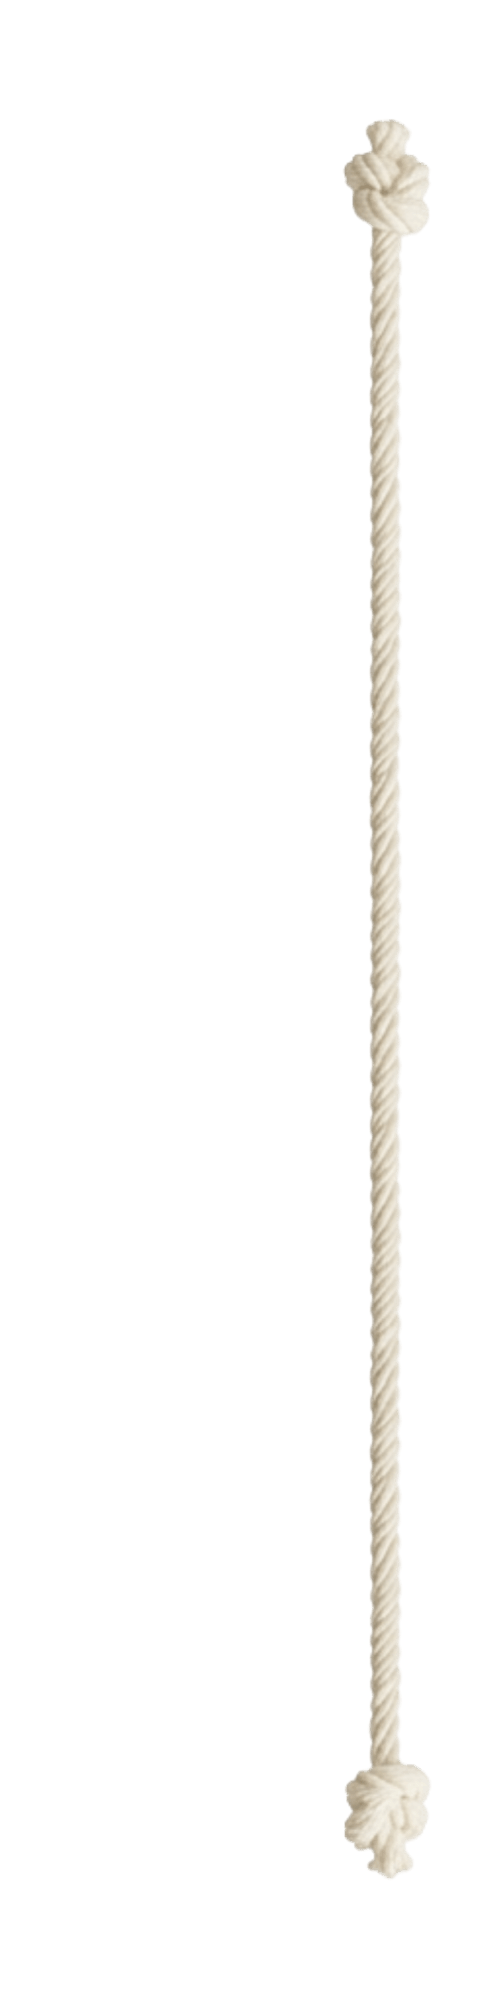
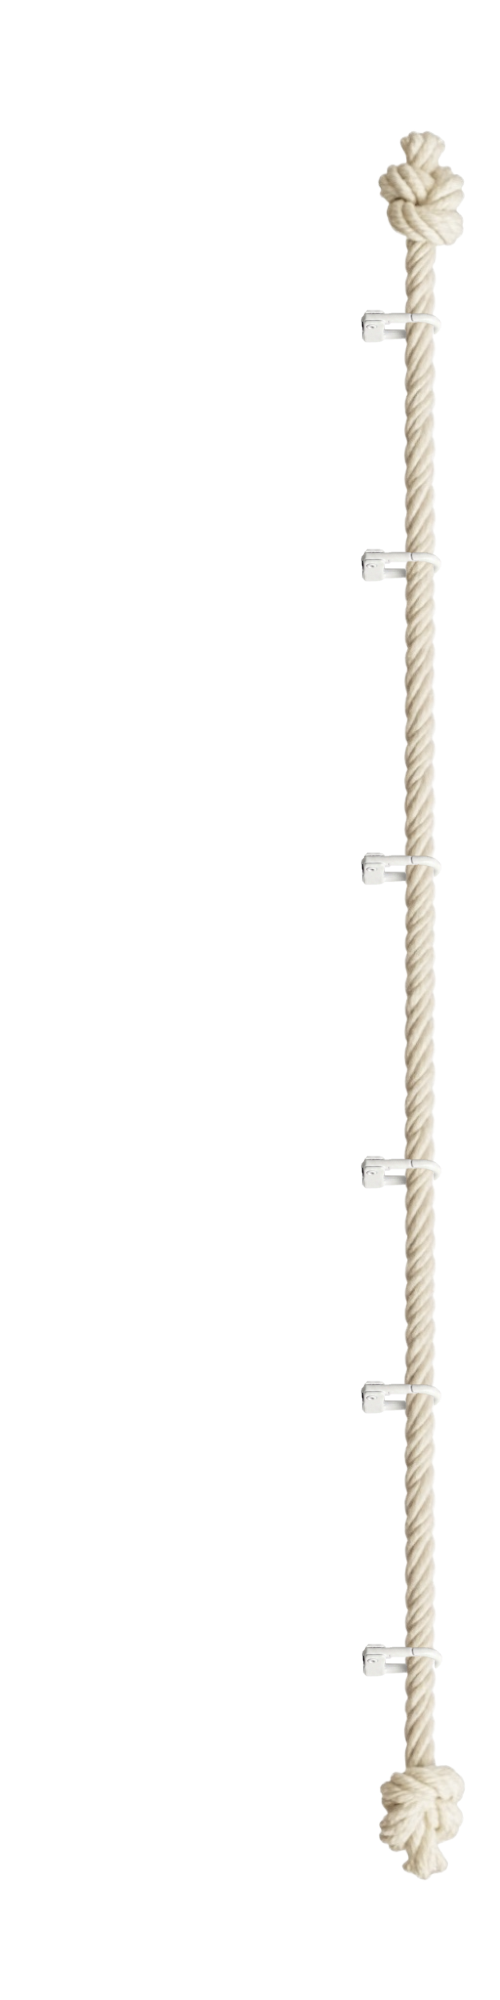
GPS charms!
GPS now has charms and some of the code is fixed up. just gotta do physics and sound effects now.

Changed region(s): [[0.69, 0.062, 0.93, 0.961]]

diff --git a/js/GPSolar.js b/js/GPSolar.js
@@ -5,9 +5,6 @@
   let selectedCharm = null;
   let openingAnimationDone = false;
 
-  // How long (ms) to wait after removing charm-active before setting
-  // display:none — must be >= the slide-back transition duration (500ms).
-  // A little extra headroom prevents cutting the animation short.
   const HIDE_DELAY = 550;
 
   const charms = [
@@ -19,9 +16,6 @@
     "legacy",
   ];
 
-  // pages controlled by each charm
-  // NOTE: GPSolar-report is intentionally NOT listed here.
-  //       It is the cover/stack image and must always remain rendered.
   const charmPages = {
     roots: [".GPSolar-roots1", ".GPSolar-roots2"],
     push: [".GPSolar-push1", ".GPSolar-push2", ".GPSolar-push3"],
@@ -54,46 +48,28 @@
       .filter(Boolean);
   }
 
-  /**
-   * Make pages visible immediately so their transitions can fire.
-   * Forces a reflow between display:block and adding charm-active
-   * so the browser actually animates the slide-in.
-   */
   function showPages(pages) {
     pages.forEach((el) => {
-      // Cancel any pending hide timer on this element
       if (el._hideTimer) {
         clearTimeout(el._hideTimer);
         el._hideTimer = null;
       }
       el.style.display = "block";
-      // Force reflow so the initial (stack) position is painted
-      // before charm-active moves the element to its active position.
       el.getBoundingClientRect();
     });
   }
 
-  /**
-   * Remove charm-active so the slide-back transition plays,
-   * then hide the element after the transition completes.
-   */
   function hidePages(pages) {
     pages.forEach((el) => {
-      // Cancel any previously scheduled hide first
       if (el._hideTimer) {
         clearTimeout(el._hideTimer);
         el._hideTimer = null;
       }
-      // Remove charm-active — this triggers the CSS slide-back transition.
-      // Do NOT clear el.style.transition here; that would kill the animation
-      // before it starts. The transition stays alive until the timer fires.
       el.classList.remove("charm-active");
-      // Hide after the slide-back transition has finished
       el._hideTimer = setTimeout(() => {
-        // Only hide if the element hasn't been re-activated in the meantime
         if (!el.classList.contains("charm-active")) {
           el.style.display = "none";
-          el.style.transition = ""; // safe to clear now — animation is done
+          el.style.transition = "";
         }
         el._hideTimer = null;
       }, HIDE_DELAY);
@@ -110,20 +86,17 @@
   // SELECTION
   // ============================================================
   function selectCharm(name) {
-    // Deselect all charm highlights
     charms.forEach((charm) => {
       const el = document.getElementById(`charm-${charm}`);
       if (el) el.classList.remove("charm-selected");
     });
 
     if (selectedCharm === name) {
-      // Tapping the same charm again — deselect: slide back then hide
       const pages = getPages(name);
       if (openingAnimationDone) setPageTransition(pages, "0s");
       hidePages(pages);
       selectedCharm = null;
     } else {
-      // Deactivate the previously selected charm, if any
       if (selectedCharm) {
         const prevPages = getPages(selectedCharm);
         if (openingAnimationDone) setPageTransition(prevPages, "0s");
@@ -132,11 +105,9 @@
 
       selectedCharm = name;
 
-      // Highlight the newly selected charm
       const el = document.getElementById(`charm-${name}`);
       if (el) el.classList.add("charm-selected");
 
-      // Show and animate in the new charm's pages
       const pages = getPages(name);
       showPages(pages);
       if (openingAnimationDone) setPageTransition(pages, "0s");
@@ -146,10 +117,6 @@
     console.log("Selected charm:", selectedCharm);
   }
 
-  /**
-   * Called when the poster closes. Hides all charm pages immediately
-   * (no delay needed — the whole poster is animating away anyway).
-   */
   function clearSelection() {
     charms.forEach((charm) => {
       const el = document.getElementById(`charm-${charm}`);
@@ -159,7 +126,6 @@
     Object.keys(charmPages).forEach((name) => {
       const pages = getPages(name);
       pages.forEach((el) => {
-        // Cancel any pending hide timer
         if (el._hideTimer) {
           clearTimeout(el._hideTimer);
           el._hideTimer = null;
@@ -175,10 +141,29 @@
 
   // ============================================================
   // CLICK HANDLER
+  // Uses elementFromPoint to let the browser do its own native
+  // hit test — respects all CSS transforms and real PNG transparency
+  // without any coordinate math. Temporarily disables pointer-events
+  // on all charm divs so elementFromPoint pierces through to the
+  // actual img underneath, which the browser only hits on opaque pixels.
   // ============================================================
   document.addEventListener("click", (e) => {
-    const charm = e.target.closest(".GPS-charm");
+    if (!e.target.closest(".GPSolar-rope-wrap")) return;
+
+    // Disable pointer-events on all charm divs temporarily
+    const allCharms = document.querySelectorAll(".GPS-charm");
+    allCharms.forEach((c) => (c.style.pointerEvents = "none"));
+
+    // Ask the browser what's visually at this exact point
+    const el = document.elementFromPoint(e.clientX, e.clientY);
+
+    // Restore pointer-events
+    allCharms.forEach((c) => (c.style.pointerEvents = "auto"));
+
+    // Walk up from the hit element to find a charm div
+    const charm = el?.closest(".GPS-charm");
     if (!charm) return;
+
     const name = charm.dataset.charm;
     if (name) selectCharm(name);
   });
@@ -191,13 +176,10 @@
     if (!poster) return;
 
     if (poster.classList.contains("poster-active")) {
-      // Poster just opened — wait for the opening animation to complete
-      // before enabling instant charm transitions (1.1s delay + 0.5s transition)
       setTimeout(() => {
         openingAnimationDone = true;
       }, 1600);
     } else {
-      // Poster closed — reset everything immediately
       openingAnimationDone = false;
       clearSelection();
     }

diff --git a/Posters/GPSolar.html b/Posters/GPSolar.html
@@ -21,7 +21,7 @@
         left 0.55s cubic-bezier(0.22, 1, 0.36, 1),
         top 0.55s cubic-bezier(0.22, 1, 0.36, 1),
         transform 0.55s cubic-bezier(0.22, 1, 0.36, 1);
-      content-visibility: auto;
+      overflow: visible;
     }
 
     .poster-active.GPSolar {
@@ -36,6 +36,7 @@
       position: relative;
       width: 100%;
       pointer-events: none;
+      overflow: visible;
     }
 
     .GPSolar-base,
@@ -280,7 +281,7 @@
       z-index: 2;
       opacity: 0;
       transform: rotate(-9deg) scale(0.32) translateY(-1480px)
-        translateX(-500px);
+        translateX(-150px);
       transition: transform 0.5s cubic-bezier(0.22, 1, 0.36, 1) 0s;
     }
 
@@ -302,37 +303,51 @@
     .GPS-charm {
       position: absolute;
       left: 630px;
-      width: 100px;
-      height: 100px;
-      pointer-events: auto;
+      width: 710px;
+      height: auto;
+      pointer-events: none;
       cursor: pointer;
       transition: filter 0.2s ease;
       z-index: 10;
     }
 
+    .poster-active.GPSolar .GPS-charm {
+      pointer-events: auto;
+    }
+
+    .GPS-charm img {
+      height: 100%;
+      width: auto;
+      display: block;
+      pointer-events: none;
+    }
+
+    .poster-active.GPSolar .GPS-charm img {
+      pointer-events: auto;
+    }
     #charm-roots {
-      top: 720px;
-      background: red;
+      top: 408px;
+      left: -6px;
     }
     #charm-push {
-      top: 1186.67px;
-      background: orange;
+      top: 870px;
+      left: -6px;
     }
     #charm-installation {
-      top: 1653.33px;
-      background: yellow;
+      top: 1414px;
+      left: -6px;
     }
     #charm-recognition {
-      top: 2120px;
-      background: green;
+      top: 2027px;
+      left: -6px;
     }
     #charm-board {
-      top: 2586.67px;
-      background: blue;
+      top: 2590px;
+      left: -6px;
     }
     #charm-legacy {
-      top: 3053.33px;
-      background: purple;
+      top: 2927px;
+      left: -6px;
     }
 
     .GPS-charm:hover {
@@ -748,20 +763,31 @@
         src="Assets/GPSolar/GPSrope.png"
         alt="GP Solar Rope"
       />
-      <div class="GPS-charm" id="charm-roots" data-charm="roots"></div>
-      <div class="GPS-charm" id="charm-push" data-charm="push"></div>
-      <div
-        class="GPS-charm"
-        id="charm-installation"
-        data-charm="installation"
-      ></div>
-      <div
-        class="GPS-charm"
-        id="charm-recognition"
-        data-charm="recognition"
-      ></div>
-      <div class="GPS-charm" id="charm-board" data-charm="board"></div>
-      <div class="GPS-charm" id="charm-legacy" data-charm="legacy"></div>
+
+      <div class="GPS-charm" id="charm-roots" data-charm="roots">
+        <img src="Assets/GPSolar/RootsCharm.png" alt="Roots Charm" />
+      </div>
+      <div class="GPS-charm" id="charm-push" data-charm="push">
+        <img src="Assets/GPSolar/PushCharm.png" alt="Push Charm" />
+      </div>
+      <div class="GPS-charm" id="charm-installation" data-charm="installation">
+        <img
+          src="Assets/GPSolar/InstallationCharm.png"
+          alt="Installation Charm"
+        />
+      </div>
+      <div class="GPS-charm" id="charm-recognition" data-charm="recognition">
+        <img
+          src="Assets/GPSolar/RecognitionCharm.png"
+          alt="Recognition Charm"
+        />
+      </div>
+      <div class="GPS-charm" id="charm-board" data-charm="board">
+        <img src="Assets/GPSolar/BoardCharm.png" alt="Board Charm" />
+      </div>
+      <div class="GPS-charm" id="charm-legacy" data-charm="legacy">
+        <img src="Assets/GPSolar/LegacyCharm.png" alt="Legacy Charm" />
+      </div>
     </div>
 
     <!-- ============================================================ -->

diff --git a/js/main.js b/js/main.js
@@ -119,7 +119,6 @@ function dismissLoadingScreen() {
 document.addEventListener(
   "click",
   (e) => {
-    console.log("capture hit", loadingComplete, userClickedThrough);
     if (e.target.closest(".loading-resume-btn")) return;
     if (userClickedThrough || !loadingComplete) return; // bail fast, nothing more needed
     userClickedThrough = true;

diff --git a/js/SaturnCD.js b/js/SaturnCD.js
@@ -228,8 +228,6 @@
       nameMap[selectedBell],
     ];
 
-    console.log("Selected module names:", selectedModuleNames);
-
     // Dim all non-selected modules
     allModules.forEach((moduleName) => {
       if (!selectedModuleNames.includes(moduleName)) {
